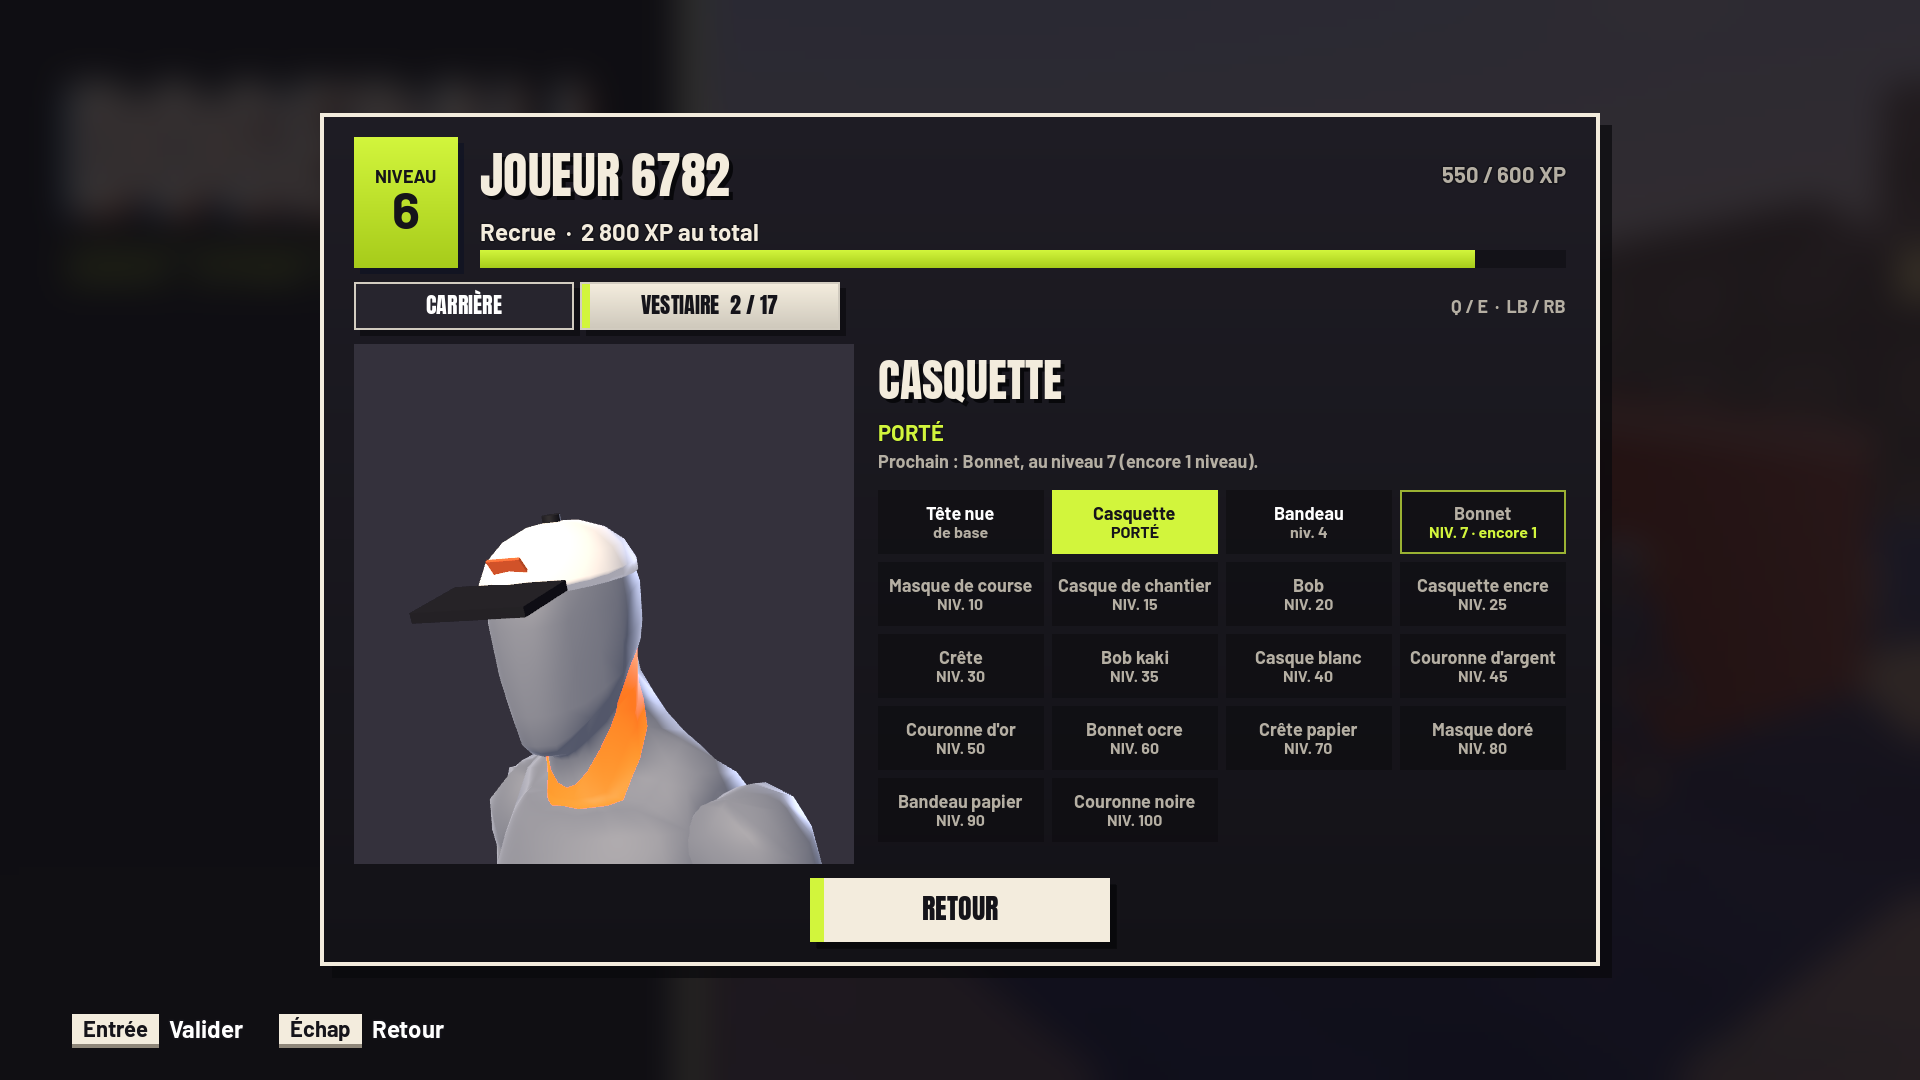
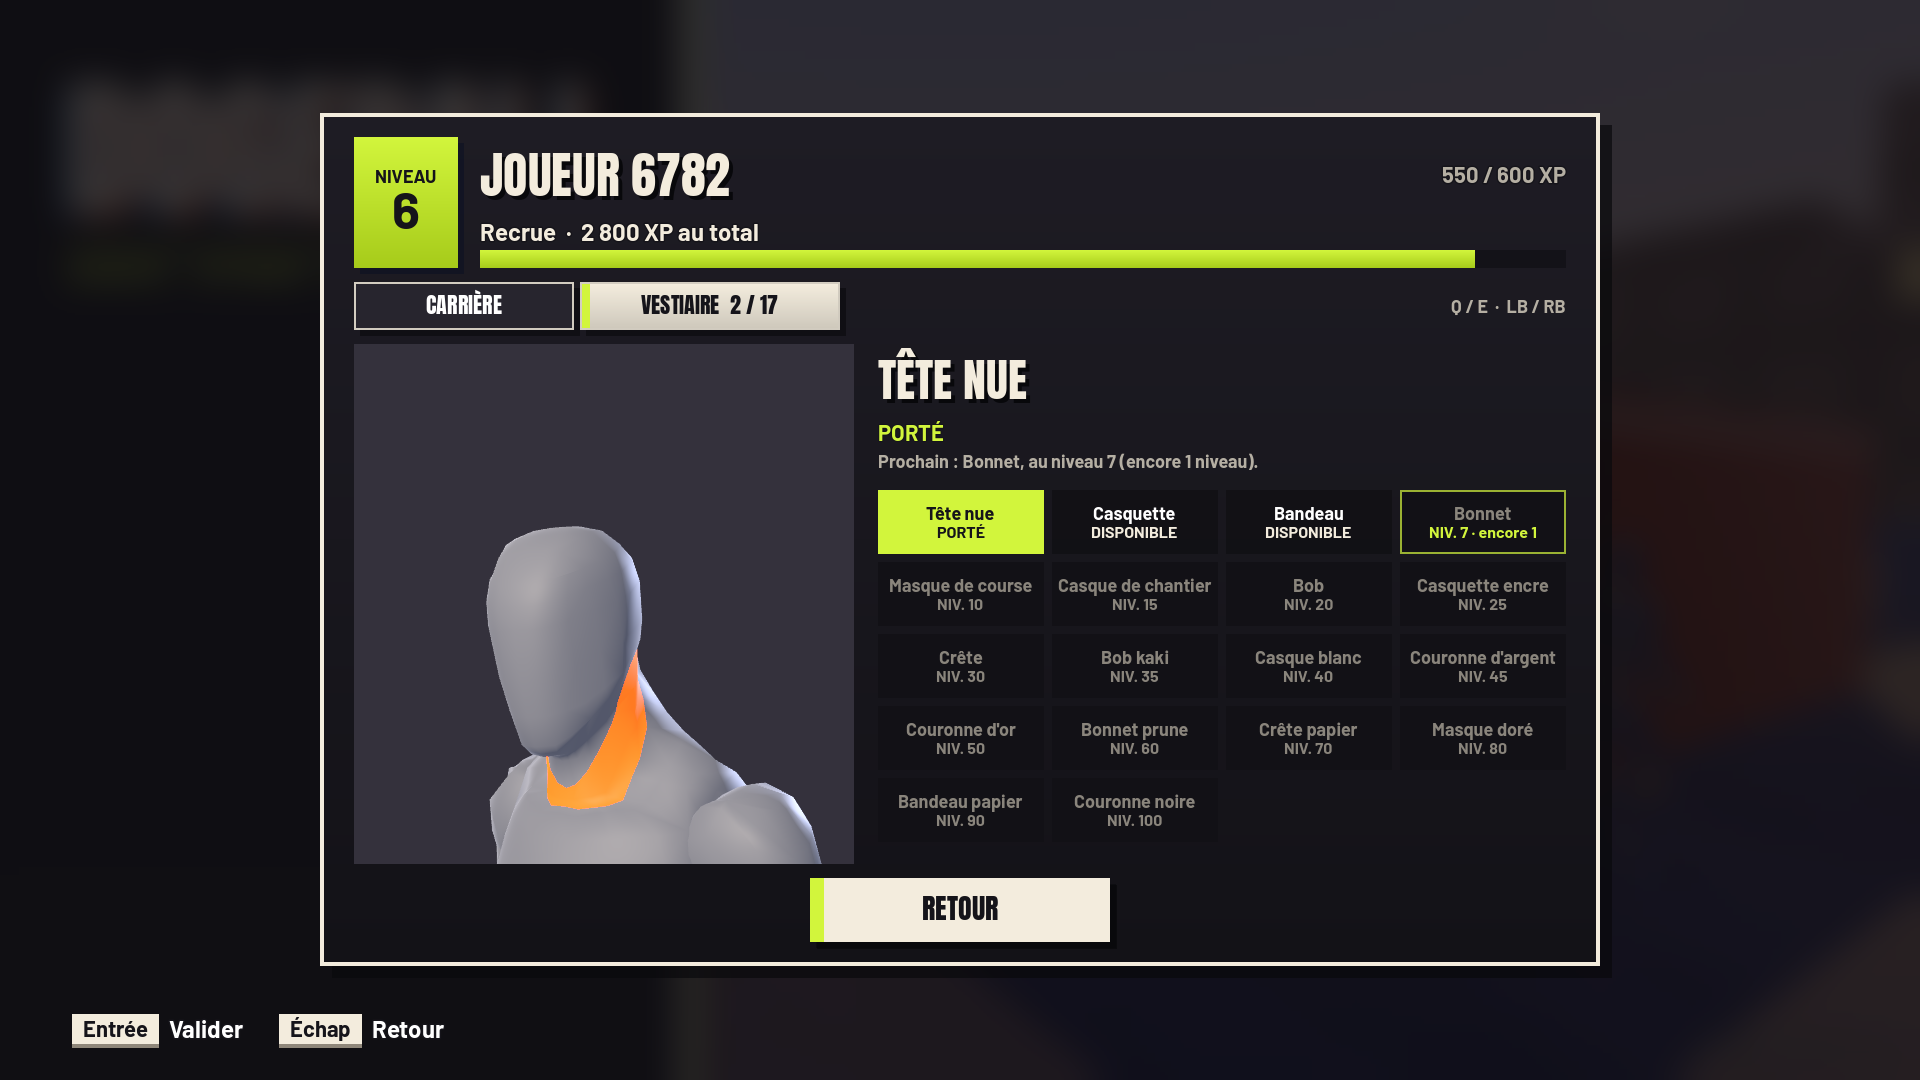
Vestiaire : bonnet prune, couleurs d'équipe du jeu, onglets au clavier AZERTY, cases verrouillées plus nettes
- « Bonnet ocre » devient « Bonnet prune » (l'ocre se lisait comme l'orange d'équipe) ; identifiant inchangé.
- Accent des couvre-chefs pris dans Visual.Palette (TeamA / TeamB), comme les bandes du corps.
- Changement d'onglet sur la touche logique Q / E : juste sur AZERTY comme sur QWERTY.
- Cases : débloqué « DISPONIBLE », verrouillé sur fond plus noir et nom éteint.
- Casque : nervure courte, posée sur la calotte. Couronne d'argent plus soutenue sur le mannequin gris.
- Jalons : J1 (CI arènes, revue, Le Dépôt) et J3 (progression et cosmétiques) cochés pour ma part.

Claude-Session: https://claude.ai/code/session_01JqDGHfY1Ly5jn7p42vhJBj

diff --git a/scripts/UI/ProfileScreen.cs b/scripts/UI/ProfileScreen.cs
@@ -145,8 +145,8 @@ public partial class ProfileScreen : Control
 
     public override void _UnhandledInput(InputEvent e)
     {
-        bool prev = e is InputEventKey { Pressed: true, Echo: false, PhysicalKeycode: Key.Q } || e is InputEventJoypadButton { Pressed: true, ButtonIndex: JoyButton.LeftShoulder };
-        bool next = e is InputEventKey { Pressed: true, Echo: false, PhysicalKeycode: Key.E } || e is InputEventJoypadButton { Pressed: true, ButtonIndex: JoyButton.RightShoulder };
+        bool prev = e is InputEventKey { Pressed: true, Echo: false, Keycode: Key.Q } || e is InputEventJoypadButton { Pressed: true, ButtonIndex: JoyButton.LeftShoulder };
+        bool next = e is InputEventKey { Pressed: true, Echo: false, Keycode: Key.E } || e is InputEventJoypadButton { Pressed: true, ButtonIndex: JoyButton.RightShoulder };
         if (!prev && !next) return;
         GetViewport().SetInputAsHandled();
         ShowTab(1 - tab);
@@ -270,13 +270,14 @@ public partial class ProfileScreen : Control
     }
 
     /// <summary>
-    /// Case du vestiaire. Porté : plaque lime pleine, texte encre, « PORTÉ ». Débloqué : encart sombre, texte blanc. Verrouillé :
-    /// nom en gris chaud, « NIV. n ». Prochain déblocage : liseré lime fin. Focus et survol : liseré papier de 3 px.
+    /// Case du vestiaire. Porté : plaque lime pleine, texte encre, « PORTÉ ». Débloqué : encart sombre, texte blanc, « DISPONIBLE ». Verrouillé :
+    /// fond plus noir, nom en gris éteint, « NIV. n ». Prochain déblocage : liseré lime fin. Focus et survol : liseré papier de 3 px.
     /// </summary>
     static void StyleTile(Button b, HeadwearDef h, Label title, Label sub, int level)
     {
         bool worn = Cosmetics.Equipped == h.Id, open = Cosmetics.IsUnlocked(h, level), next = Cosmetics.NextAfter(level) == h;
-        var normal = worn ? UiKit.InsetBox(UiKit.Yellow, 0) : next ? UiKit.InsetBox(null, 0, 2, new Color(UiKit.Yellow, 0.7f)) : UiKit.InsetBox(null, 0);
+        var locked = new Color("121116");   // case verrouillée : plus sombre que l'encart des cases débloquées
+        var normal = worn ? UiKit.InsetBox(UiKit.Yellow, 0) : next ? UiKit.InsetBox(locked, 0, 2, new Color(UiKit.Yellow, 0.7f)) : open ? UiKit.InsetBox(null, 0) : UiKit.InsetBox(locked, 0);
         var lit = normal.Copy();
         lit.BorderWidth = 3;
         lit.BorderColor = UiKit.Cream;
@@ -284,9 +285,9 @@ public partial class ProfileScreen : Control
         b.AddThemeStyleboxOverride("hover", lit);
         b.AddThemeStyleboxOverride("pressed", lit);
         b.AddThemeStyleboxOverride("focus", lit);
-        title.AddThemeColorOverride("font_color", worn ? UiKit.Navy : open ? Colors.White : UiKit.Sky);
-        sub.AddThemeColorOverride("font_color", worn ? UiKit.Navy : next ? UiKit.Yellow : UiKit.Sky);
-        sub.Text = worn ? "PORTÉ" : open ? (h.Level > 1 ? $"niv. {h.Level}" : "de base") : next ? $"NIV. {h.Level} · encore {h.Level - level}" : $"NIV. {h.Level}";
+        title.AddThemeColorOverride("font_color", worn ? UiKit.Navy : open ? Colors.White : new Color("8a857c"));
+        sub.AddThemeColorOverride("font_color", worn ? UiKit.Navy : next ? UiKit.Yellow : open ? UiKit.Cream : new Color("8a857c"));
+        sub.Text = worn ? "PORTÉ" : open ? "DISPONIBLE" : next ? $"NIV. {h.Level} · encore {h.Level - level}" : $"NIV. {h.Level}";
     }
 
     /// <summary>Essaie un couvre-chef sur l'aperçu et met à jour le nom et l'état affichés à côté.</summary>

diff --git a/scripts/Visual/Headwear.cs b/scripts/Visual/Headwear.cs
@@ -27,8 +27,8 @@ public static class Headwear
     public const float MaxTop = Top + 0.07f;
 
     static readonly Color Ink = new("15141a"), Paper = new("f3ecdd"), Yellow = new("F2C230"), White = new("F4F4F4"),
-        Moss = new("3B5B4F"), MossDark = new("2C443B"), Ochre = new("C98A2E"), OchreDark = new("8E5E1C"), Straw = new("D9B866"),
-        Khaki = new("7E7E52"), Gold = new("E8B730"), Silver = new("C9CED6"), Night = new("2A2830"), Ruby = new("D8262E"), Lens = new("2A3550");
+        Moss = new("3B5B4F"), MossDark = new("2C443B"), Plum = new("5A3A5E"), PlumDark = new("3F2842"), Straw = new("D9B866"),
+        Khaki = new("7E7E52"), Gold = new("E8B730"), Silver = new("9EA6B3"), Night = new("2A2830"), Ruby = new("D8262E"), Lens = new("2A3550");
 
     static readonly Dictionary<string, ArrayMesh?> cache = new();
     static readonly Dictionary<(Color, float, float, float), StandardMaterial3D> materials = new();
@@ -91,7 +91,7 @@ public static class Headwear
         string key = $"{id}#{team}";
         if (cache.TryGetValue(key, out var hit)) return hit;
         var p = new Parts();
-        var teamMat = Mat(team == 0 ? new Color("f2612d") : new Color("2e86de"), 0.55f);
+        var teamMat = Mat(team == 0 ? Palette.TeamA : Palette.TeamB, 0.55f);   // mêmes couleurs que les bandes du corps
         bool ok = true;
         switch (id)
         {
@@ -119,9 +119,9 @@ public static class Headwear
             case "bonnet":
             case "bonnet_ocre":
             {
-                bool ochre = id == "bonnet_ocre";
-                Dome(p, Mat(ochre ? Ochre : Moss, 0.95f), Rx + 0.012f, 0.106f, -0.062f);
-                Ring(p, Mat(ochre ? OchreDark : MossDark, 0.95f), Rx + 0.012f, Rx + 0.014f, 0.045f, -0.045f);   // revers sur le front
+                bool plum = id == "bonnet_ocre";   // identifiant historique : le bonnet est prune (l'ocre se confondait avec l'orange d'équipe)
+                Dome(p, Mat(plum ? Plum : Moss, 0.95f), Rx + 0.012f, 0.106f, -0.062f);
+                Ring(p, Mat(plum ? PlumDark : MossDark, 0.95f), Rx + 0.012f, Rx + 0.014f, 0.045f, -0.045f);   // revers sur le front
                 p.Add(new SphereMesh { Radius = 0.026f, Height = 0.052f }, Mat(Paper, 1f), new Vector3(0, Top + 0.032f, 0.008f));     // pompon, sous la limite
                 break;
             }
@@ -154,7 +154,7 @@ public static class Headwear
                 var shell = Mat(id == "casque" ? Yellow : White, 0.45f);
                 Dome(p, shell, Rx + 0.016f, 0.084f, -0.03f);
                 Ring(p, shell, Rx + 0.028f, Rx + 0.032f, 0.012f, -0.034f);   // bord
-                p.Add(new BoxMesh { Size = new Vector3(0.024f, 0.022f, 0.2f) }, shell, new Vector3(0, 0.05f, 0.004f));   // nervure
+                p.Add(new BoxMesh { Size = new Vector3(0.022f, 0.014f, 0.09f) }, shell, new Vector3(0, 0.05f, 0.004f));   // nervure, courte : elle reste sur le haut de la calotte
                 p.Add(new BoxMesh { Size = new Vector3(0.05f, 0.028f, 0.004f) }, teamMat, new Vector3(0, -0.002f, -Front - 0.012f), new Vector3(-28, 0, 0));   // insigne
                 break;
             }

diff --git a/scripts/Online/Cosmetics.cs b/scripts/Online/Cosmetics.cs
@@ -17,7 +17,10 @@ public static class Cosmetics
     /// <summary>Aucun couvre-chef.</summary>
     public const string None = "aucun";
 
-    /// <summary>Catalogue, dans l'ordre de déblocage. Ajouter à la fin : l'identifiant circule sur le réseau.</summary>
+    /// <summary>
+    /// Catalogue, dans l'ordre de déblocage. L'identifiant (chaîne) circule sur le réseau et dans la sauvegarde : ne jamais en renommer
+    /// un ; l'ordre peut changer, mais <see cref="ForBot"/> dépend des entrées des niveaux 2 à 10.
+    /// </summary>
     public static readonly IReadOnlyList<HeadwearDef> Headwear = new[]
     {
         new HeadwearDef(None, "Tête nue", 1),
@@ -33,7 +36,7 @@ public static class Cosmetics
         new HeadwearDef("casque_blanc", "Casque blanc", 40),
         new HeadwearDef("couronne_argent", "Couronne d'argent", 45),
         new HeadwearDef("couronne", "Couronne d'or", 50),
-        new HeadwearDef("bonnet_ocre", "Bonnet ocre", 60),
+        new HeadwearDef("bonnet_ocre", "Bonnet prune", 60),
         new HeadwearDef("crete_papier", "Crête papier", 70),
         new HeadwearDef("lunettes_or", "Masque doré", 80),
         new HeadwearDef("bandeau_papier", "Bandeau papier", 90),

diff --git a/scripts/Gameplay/DesktopPlayer.cs b/scripts/Gameplay/DesktopPlayer.cs
@@ -1563,7 +1563,7 @@ public partial class DesktopPlayer : Node3D
         {
             var pose = Pose;
             selfAvatar.Visible = ThirdPerson && !Hurtbox.Eliminated && camera.GlobalPosition.DistanceTo(head.GlobalPosition) > AvatarHideDistance;   // caméra collée au joueur (mur derrière) : on le cache pour ne pas boucher l'écran
-            selfAvatar.HeadwearVisible = pitch > HatHidePitch;   // caméra qui plonge sur la tête : le couvre-chef entrerait dans la visée
+            selfAvatar.HeadwearVisible = pitch > HatHidePitch;   // caméra qui plonge sur la tête : le couvre-chef entrerait dans la visée (collée à un mur, tout l'avatar est déjà caché)
             selfAvatar.Pose(pose.Head, pose.Yaw, pose.Left, pose.Right, pose.Elevation);
             selfAvatar.Charging = charging && held != null;   // bras armé tant que le tir se charge
         }

diff --git a/production/milestones/j3-boucle.md b/production/milestones/j3-boucle.md
@@ -17,9 +17,9 @@ complètes et son de qualité. À la fin, un inconnu peut installer le jeu et y 
 
 - [ ] Tutoriel guidé sur une arène (déplacement, ramasser, lancer, attraper, esquive, tremplin, éjection)
 - [ ] Partie en ligne de bout en bout : créer, inviter, rejoindre, jouer, revanche
-- [ ] Progression sauvegardée (niveau de joueur, récompenses cosmétiques) et Steam Cloud
+- [x] Progression sauvegardée (niveau de joueur, récompenses cosmétiques) et Steam Cloud — couvre-chefs et vestiaire, PR #34
 - [ ] Options : graphismes, son, contrôles réassignables, sensibilité, langue, accessibilité de base
-- [ ] Ambiance sonore et musique par arène, sons d'impact et d'attrape retravaillés
+- [ ] Ambiance sonore et musique par arène, sons d'impact et d'attrape retravaillés (ambiances par arène faites, PR #34 ; musique et impacts restent)
 - [ ] All S1 and S2 bugs resolved
 - [ ] Performance within budget on target hardware
 - [ ] Build stable for 3 consecutive days

diff --git a/production/milestones/j1-arenes.md b/production/milestones/j1-arenes.md
@@ -18,9 +18,9 @@ jouer une partie solo et une partie en ligne complètes sur deux arènes, et ell
 - [x] Géométrie d'arène partagée par le joueur, les bots et l'hôte (`scripts/Maps/ArenaGeometry.cs`)
 - [x] Bots qui naviguent sur toute la carte sans tomber seuls (`NavGrid`, `BotRoam`)
 - [x] Toits du Marché et La Piscine jouables en solo et en ligne
-- [ ] Job CI « arenes » vert (solo des deux cartes, réseau sur Toits du Marché)
-- [ ] Revue indépendante des cartes ≥ 8/10
-- [ ] Troisième arène (dépôt de tramways, couverts mobiles)
+- [x] Job CI « arenes » vert (solo des deux cartes, réseau sur Toits du Marché)
+- [x] Revue indépendante des cartes ≥ 8/10
+- [x] Troisième arène (dépôt de tramways) — Le Dépôt, PR #34 ; les couverts mobiles sont reportés (trams garés fixes)
 - [ ] All S1 and S2 bugs resolved
 - [ ] Performance within budget on target hardware (60 i/s sur PC milieu de gamme)
 - [ ] Build stable for 2 consecutive days
